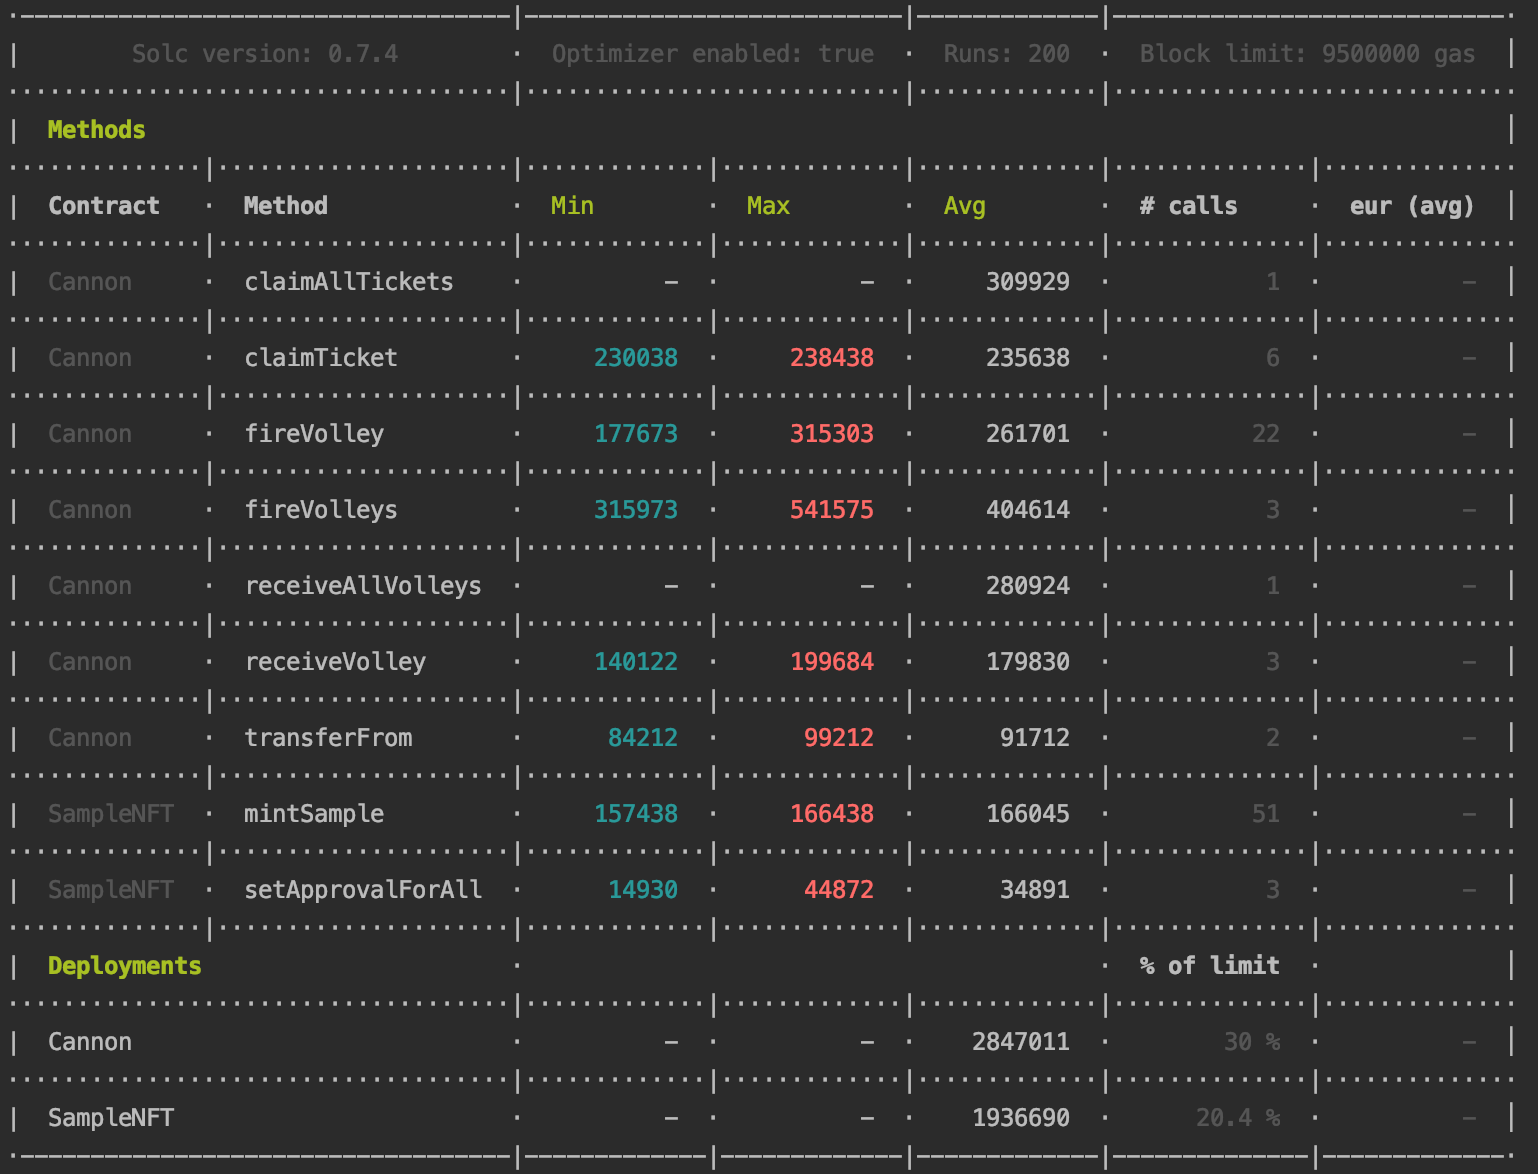
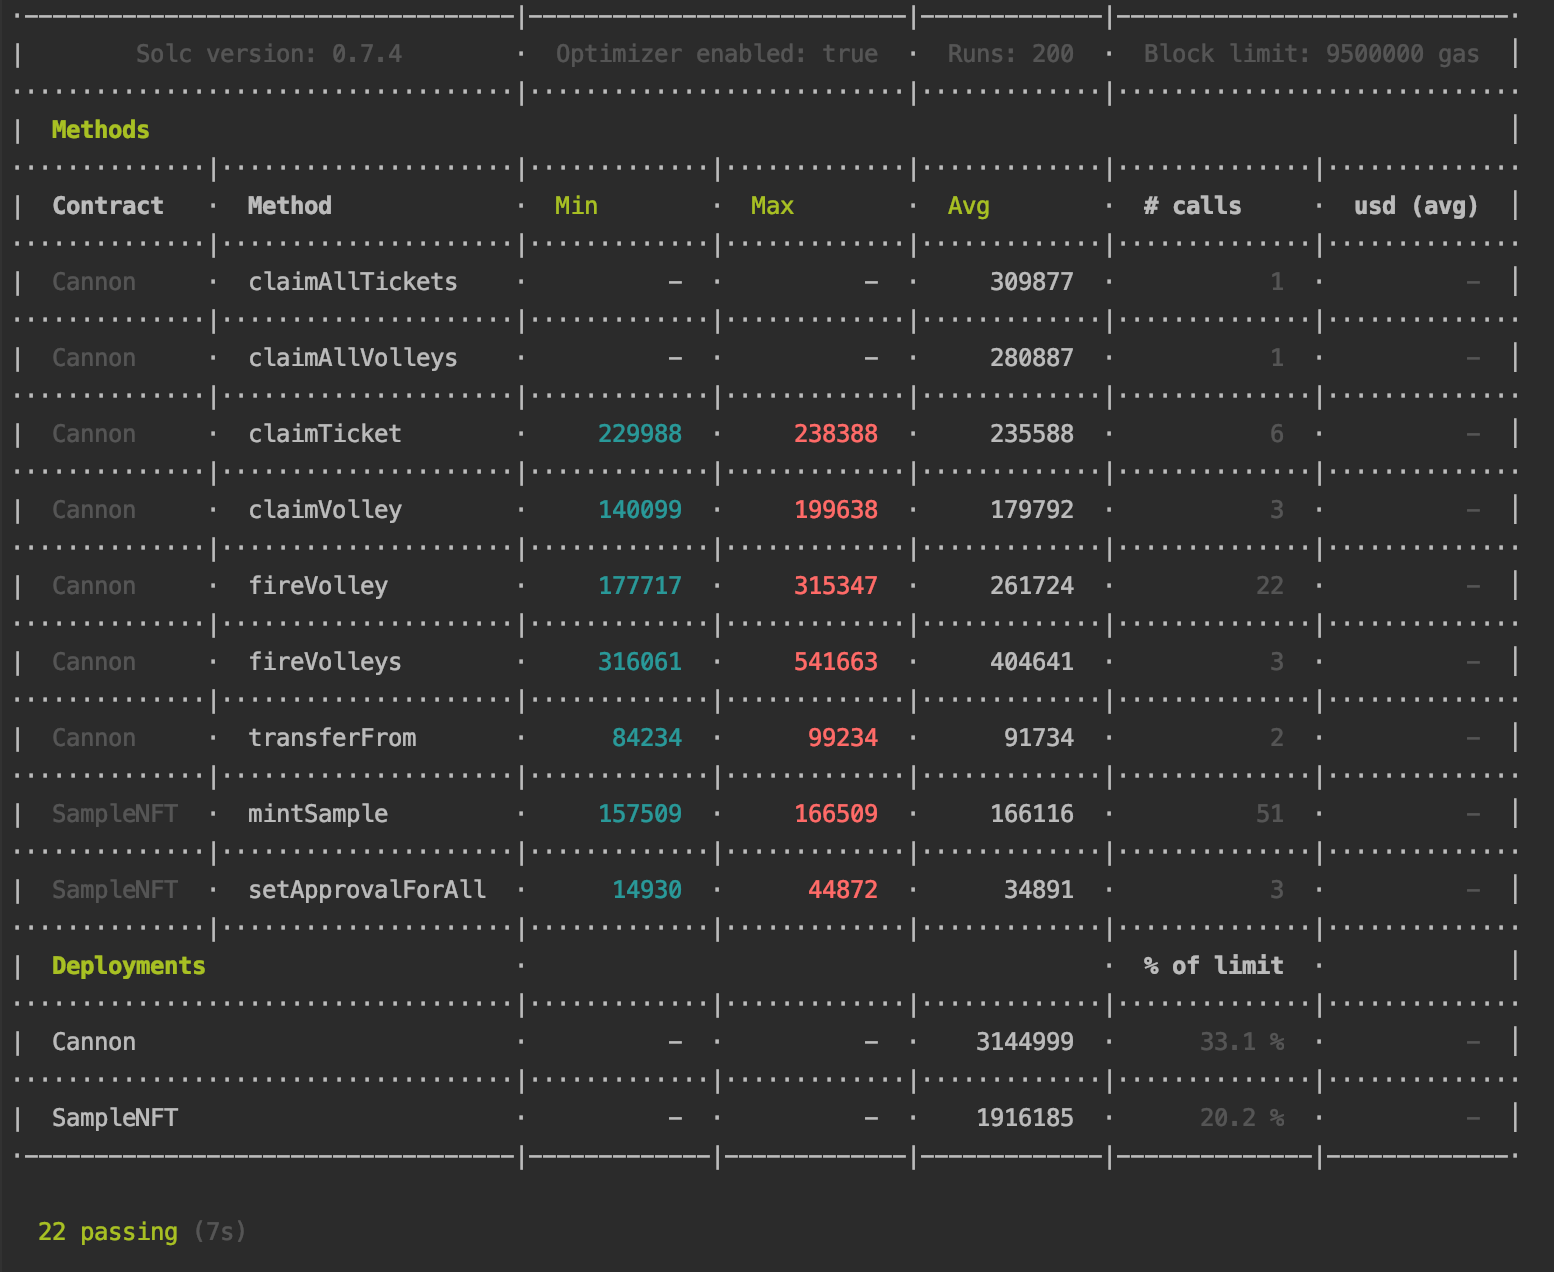
Clarify language regarding will-call vs ticket. Refactor some method names and mappings. Redeploy to Rinkeby

diff --git a/test/CannonTest.js b/test/CannonTest.js
@@ -108,7 +108,7 @@ describe("Cannon", function() {
 
     });
 
-    it("Should allow recipient to pickup a single will-call volley with receiveVolley", async function() {
+    it("Should allow recipient to pickup a single will-call volley with claimVolley", async function() {
 
         // Recipient
         const account = accounts[3];
@@ -136,7 +136,7 @@ describe("Cannon", function() {
         expect(await cannon.connect(account).myWillCallCount()).to.equal(1);
 
         // Pickup recipient's volley on will-call
-        await cannon.connect(account).receiveVolley(0);
+        await cannon.connect(account).claimVolley(0);
 
         // Ensure recipient has all their tokens on will-call
         for (let i=0; i<volley.tokenIds.length; i++){
@@ -145,7 +145,7 @@ describe("Cannon", function() {
 
     });
 
-    it("Should allow recipient to pickup multiple will-call volleys with receiveAllVolleys", async function() {
+    it("Should allow recipient to pickup multiple will-call volleys with claimAllVolleys", async function() {
 
         // Recipient
         const account = accounts[4];
@@ -184,7 +184,7 @@ describe("Cannon", function() {
         expect(await cannon.connect(account).myWillCallCount()).to.equal(2);
 
         // Pickup Recipient's volley on will-call
-        await cannon.connect(account).receiveAllVolleys();
+        await cannon.connect(account).claimAllVolleys();
 
         // Ensure recipient received all their tokens from first volley
         for (let i=0; i<volley1.tokenIds.length; i++){
@@ -332,14 +332,14 @@ describe("Cannon", function() {
             .withArgs(sender, recipient, snifty.address, volley.tokenIds);
 
         // Pickup recipient's volley on will-call
-        await expect(cannon.connect(account).receiveVolley(0))
+        await expect(cannon.connect(account).claimVolley(0))
             .to
             .emit(cannon, "VolleyTransferred")
             .withArgs(sender, recipient, snifty.address, volley.tokenIds);
 
     });
 
-    it("Should emit a VolleyTicketed event & recipient owns ticket upon issue of transferable will-call ticket", async function() {
+    it("Should emit a VolleyTicketed event & recipient owns ticket upon issue of transferable ticket", async function() {
 
         // Recipient
         const account = accounts[9];
@@ -363,12 +363,12 @@ describe("Cannon", function() {
             .emit(cannon,"VolleyTicketed")
             .withArgs(sender, recipient, ticketId, snifty.address, volley.tokenIds);
 
-        // Recipient should own the the NFT for the will-call ticket
+        // Recipient should own the the NFT for the ticket
         expect(await cannon.ownerOf(ticketId)).equal(recipient);
 
     });
 
-    it("Should increment ticketId upon successful issue of transferable will-call ticket", async function() {
+    it("Should increment ticketId upon successful issue of transferable ticket", async function() {
 
         // Recipient
         const account = accounts[10];
@@ -397,7 +397,7 @@ describe("Cannon", function() {
 
     });
 
-    it("Should allow recipient to fetch a list of their waiting transferable will-call tickets", async function() {
+    it("Should allow recipient to fetch a list of their waiting transferable tickets", async function() {
 
         // Recipient
         const account = accounts[10];
@@ -423,7 +423,7 @@ describe("Cannon", function() {
 
     });
 
-    it("Should allow recipient of will-call ticket to claim if they haven't transferred the ticket", async function() {
+    it("Should allow recipient of ticket to claim its nifties if they haven't transferred the ticket", async function() {
 
         // Recipient
         const account = accounts[11];
@@ -450,7 +450,7 @@ describe("Cannon", function() {
             .emit(cannon,"VolleyTicketed")
             .withArgs(sender, recipient, ticketId, snifty.address, volley.tokenIds);
 
-        // Claim recipient's will-call ticket
+        // Claim recipient's ticket
         await expect(cannon.connect(account).claimTicket(ticketId))
             .to
             .emit(cannon, "VolleyTransferred")
@@ -458,7 +458,7 @@ describe("Cannon", function() {
 
     });
 
-    it("Should not allow recipient of will-call ticket to claim if they've transferred the ticket", async function() {
+    it("Should not allow recipient of ticket to claim its nifties if they've transferred the ticket", async function() {
 
         // Recipient
         const account = accounts[12];
@@ -492,14 +492,14 @@ describe("Cannon", function() {
         // Transfer it
         await cannon.connect(account).transferFrom(recip1, recip2, ticketId);
 
-        // Attempt to claim will-call ticket as origial recipient
+        // Attempt to claim ticket as origial recipient
         await expect(cannon.connect(account).claimTicket(ticketId))
             .to
             .revertedWith("Caller is not the owner of the ticket.");
 
     });
 
-    it("Should allow current owner of a transferred will-call ticket to claim the ticket", async function() {
+    it("Should allow current owner of a transferred ticket to claim the ticket", async function() {
 
         // Recipient
         const account = accounts[13];
@@ -533,7 +533,7 @@ describe("Cannon", function() {
         // Transfer it
         await cannon.connect(account).transferFrom(recip1, recip2, ticketId);
 
-        // Claim will-call ticket as buyer and current owner
+        // Claim ticket as buyer and current owner
         await expect(cannon.connect(buyer).claimTicket(ticketId))
             .to
             .emit(cannon, "VolleyTransferred")
@@ -568,20 +568,20 @@ describe("Cannon", function() {
             .emit(cannon,"VolleyTicketed")
             .withArgs(sender, recipient, ticketId, snifty.address, volley.tokenIds);
 
-        // Claim recipient's will-call ticket
+        // Claim recipient's ticket
         await expect(cannon.connect(account).claimTicket(ticketId))
             .to
             .emit(cannon, "VolleyTransferred")
             .withArgs(sender, recipient, snifty.address, volley.tokenIds);
 
-        // Attempt to will-call ticket again
+        // Attempt to ticket again
         await expect(cannon.connect(account).claimTicket(ticketId))
             .to
             .revertedWith("Ticket has already been claimed.");
 
     });
 
-    it("Should allow caller to pickup multiple will-call tickets with claimAllTickets", async function() {
+    it("Should allow caller to pickup multiple tickets with claimAllTickets", async function() {
 
         // Recipient
         const account = accounts[16];

diff --git a/scripts/deploy.js b/scripts/deploy.js
@@ -20,6 +20,7 @@ async function main() {
 
     console.log("Nifty Cannon deployed to:", cannon.address);
     console.log("Sample NFT deployed to:", snifty.address);
+    console.log("\n");
 }
 
 main()

diff --git a/README.md b/README.md
@@ -12,24 +12,23 @@ Send multiple [ERC-721](http://erc721.org/) tokens from the same contract to mul
   
 * Will-call mode
   - sender fires same payload as airdrop, but it is stored rather than acted upon
-  - recipient can pickup will-call NFTs any time
-  - recipient pays gas for transfers when picking up
+  - recipient can claim will-call NFTs any time
+  - recipient pays gas for transfers when claiming
 
-* Transferable Will-call Ticket mode
-  - similar to will-call mode, except a will-call ticket is minted as an NFT, and transferred to the recipient
-  - the current owner of the will-call ticket may pay the gas to receive the volleyed NFTs
-  - if originally targeted recipient doesn't wish to pay gas to receive the NFTs, they can transfer or resell the ticket
+* Transferable Ticket mode
+  - similar to will-call mode, except a ticket is minted as an NFT, and transferred to the recipient
+  - the current owner of the ticket may pay the gas to receive the volleyed NFTs
+  - if originally targeted recipient doesn't wish to pay gas and receive the NFTs, they can transfer or resell the ticket
   - helps avoid unclaimed will-call volleys; more volleyed NFTs will are likely to end up in the secondary market
   
-* Rampart
-  - anyone can register to opt out of receiving airdrops (Not MV)
+* Rampart (Not in MVP)
+  - anyone can register to opt out of receiving airdrops
 
 ## Status
 Work in Progress
 * Airdrops working and unit tested
-* Non-transferable will-call working and unit tested
-* Transferable will-call tickets working and unit tested
-* Rampart functionality not MVP
+* Non-transferable will-call volleys working and unit tested
+* Transferable tickets working and unit tested
 
 ### Unit Test Output
 ![Unit Test Output](images/Unit_Test_Output.png)
@@ -89,6 +88,16 @@ This builds the contracts and runs the unit tests.
 
 ```npm run test```
 
+### Deploy to Rinkeby
+This deploys the built contracts to Rinkeby
+
+```npm run deploy:rinkeby```
+
+
+
+### Verify deployed contract with etherscan
+```npx hardhat verify --network [rinkeby|mainnet] DEPLOYED_CONTRACT_ADDRESS```
+
 # Architecture
 ## Discussion
 Initial MVP allows an owner of one or more NFTs on a contract to send a set of them to one or more recipients.
@@ -99,19 +108,19 @@ Initial MVP allows an owner of one or more NFTs on a contract to send a set of t
 
 ### Terminology
 * Volley
-  - A set of NFTs on a single contract destined for a single recipient
+  - A set of NFTs on a single contract destined for a single claimer
     
-* Airdrop Send
-  - The immediate transfer of the NFTs in a Volley
+* Airdrop
+  - The immediate transfer of the NFTs in one or more Volleys to one or more recipients
   
-* Will-call Send
-  - The deferred transfer of the NFTs in a Volley for a recipient to pickup later
+* Will-call
+  - The a list of the NFTs in a Volley for a recipient to claim later
   
-* Will-call Ticket
-  - A transferable version of Will-call Send where an NFT is issued. Current owner can pickup
+* Ticket
+  - A transferable version of Will-call Volley where an NFT is issued. Current owner can claim
   
-* Will-call Pickup
-  - A recipient initiating a previously approved airdrop to their wallet
+* Claim
+  - A recipient receiving the previously approved NFTs to their wallet
 
 ## Diagrams
 ### Volley Sequences - Air Drop Send
@@ -123,11 +132,11 @@ Initial MVP allows an owner of one or more NFTs on a contract to send a set of t
 ### Volley Sequences - Will-call Pickup (non-transferable)
 ![Volley Sequences - Will-call Pickup](images/Volley_Sequences-Will_Call_Pickup.png)
 
-### Volley Sequences - Issuing Will-call Tickets (transferable)
-![Volley Sequences - Issue Will-call Tickets](images/Volley_Sequences-Issue_Will_Call_Tickets.png)
+### Volley Sequences - Issuing tickets (transferable)
+![Volley Sequences - Issue tickets](images/Volley_Sequences-Issue_Will_Call_Tickets.png)
 
-### Volley Sequences - Will-call Ticket Claim
-![Volley Sequences - Will-call Ticket Claim](images/Volley_Sequences-Will_Call_Ticket_Claim.png)
+### Volley Sequences - ticket Claim
+![Volley Sequences - ticket Claim](images/Volley_Sequences-Will_Call_Ticket_Claim.png)
 
 # Attributions
 * Cannon icon made by <a href="https://www.flaticon.com/authors/freepik" title="Freepik">Freepik</a> from <a href="https://www.flaticon.com/" title="Flaticon">www.flaticon.com</a></div>
